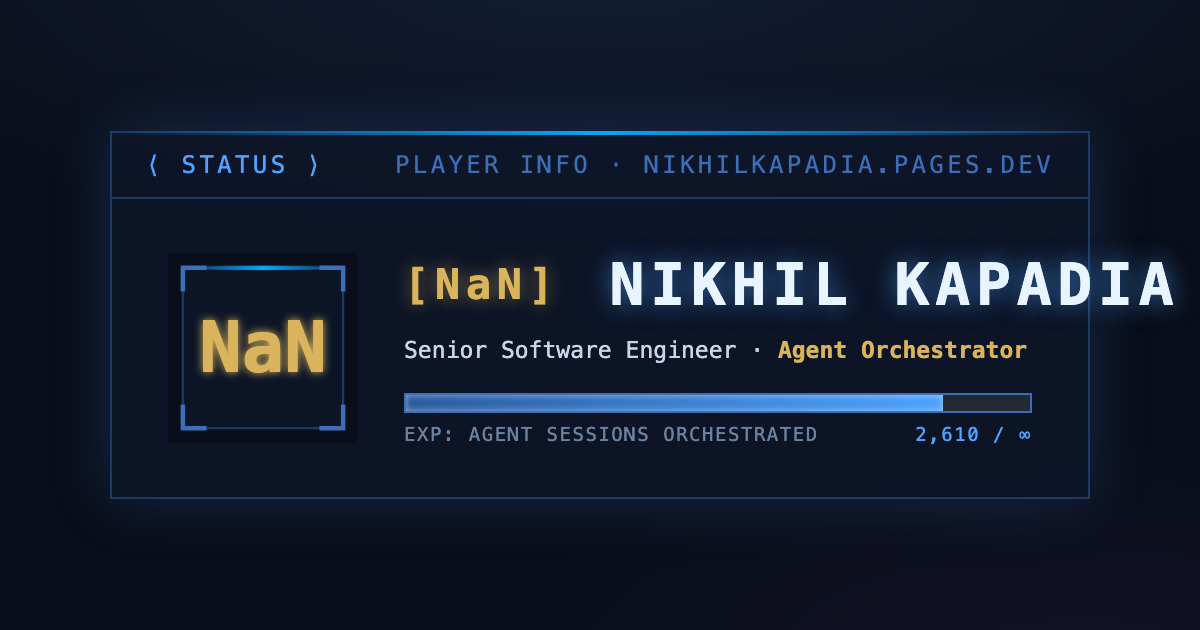
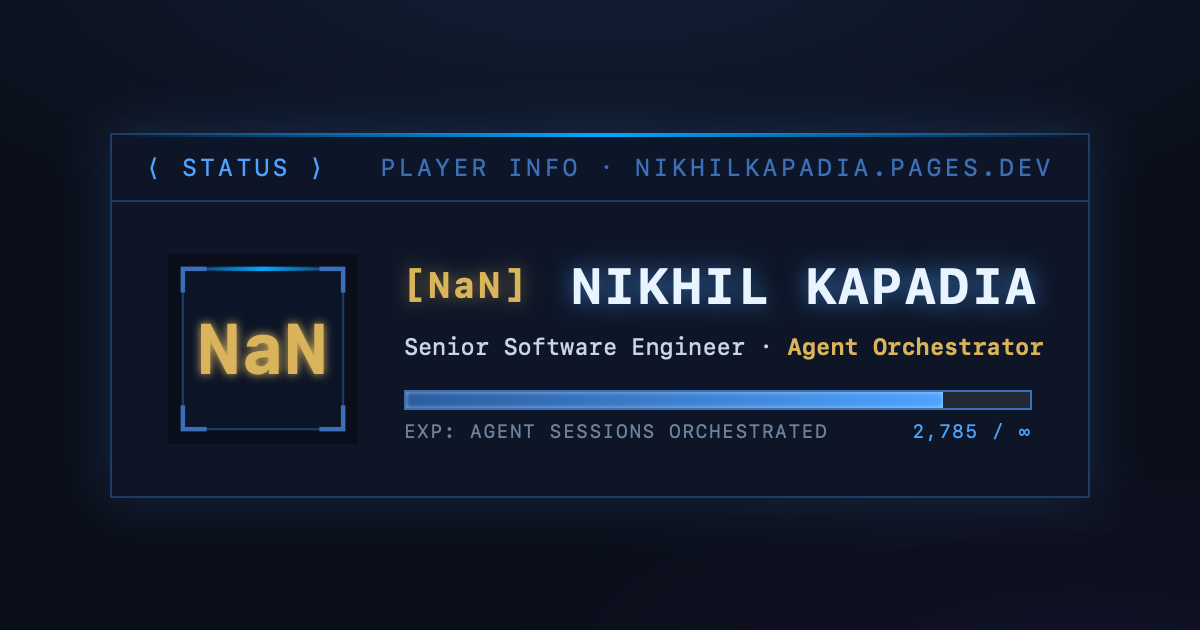
Social card: fit the name, refresh the count, add a WebKit render script

diff --git a/scripts/render-og.swift b/scripts/render-og.swift
@@ -1,0 +1,24 @@
+import AppKit
+import WebKit
+let args = CommandLine.arguments
+let src = URL(fileURLWithPath: args[1]); let out = URL(fileURLWithPath: args[2])
+let width = CGFloat(Double(args[3]) ?? 1200); let height = CGFloat(Double(args[4]) ?? 630)
+let app = NSApplication.shared; app.setActivationPolicy(.prohibited)
+let config = WKWebViewConfiguration()
+let web = WKWebView(frame: NSRect(x: 0, y: 0, width: width, height: height), configuration: config)
+let window = NSWindow(contentRect: web.frame, styleMask: .borderless, backing: .buffered, defer: false)
+window.contentView = web
+final class Nav: NSObject, WKNavigationDelegate {
+    func webView(_ webView: WKWebView, didFinish navigation: WKNavigation!) {
+        DispatchQueue.main.asyncAfter(deadline: .now() + 1.0) {
+            let snap = WKSnapshotConfiguration(); snap.rect = webView.bounds; snap.snapshotWidth = NSNumber(value: Double(width))
+            webView.takeSnapshot(with: snap) { image, error in
+                guard let image, let tiff = image.tiffRepresentation, let rep = NSBitmapImageRep(data: tiff), let png = rep.representation(using: .png, properties: [:]) else { print("snapshot failed", error ?? ""); exit(1) }
+                try! png.write(to: out); print("wrote", out.path, Int(rep.pixelsWide), "x", Int(rep.pixelsHigh)); exit(0)
+            }
+        }
+    }
+}
+let nav = Nav(); web.navigationDelegate = nav
+web.loadFileURL(src, allowingReadAccessTo: src.deletingLastPathComponent())
+app.run()

diff --git a/og-src.html b/og-src.html
@@ -1,6 +1,7 @@
 <!doctype html>
 <!-- Source for og.png. Regenerate with:
-     chrome --headless --window-size=1200,630 --screenshot=og.png og-src.html -->
+     chrome --headless --window-size=1200,630 --screenshot=og.png og-src.html
+     or: swift scripts/render-og.swift "$PWD/og-src.html" og.png 1200 630 -->
 <html>
 <head>
 <meta charset="utf-8">
@@ -39,8 +40,10 @@
   .body { display: flex; align-items: center; gap: 46px; padding: 52px 56px; }
   .badge { width: 190px; height: 190px; flex-shrink: 0; }
   .name {
-    font-size: 58px; font-weight: 700;
-    letter-spacing: .1em; text-transform: uppercase;
+    /* 632px of room: 14 uppercase mono glyphs plus the clan tag only fit
+       at this size and tracking. Check the render after any change. */
+    font-size: 50px; font-weight: 700;
+    letter-spacing: .05em; text-transform: uppercase;
     color: #e8f4ff;
     text-shadow: 0 0 24px rgba(77, 163, 255, .6);
     white-space: nowrap;
@@ -76,7 +79,7 @@
         <div class="name"><span class="clan">[NaN]</span> Nikhil Kapadia</div>
         <div class="class-line">Senior Software Engineer · <b>Agent Orchestrator</b></div>
         <div class="meter"><div class="fill"></div></div>
-        <div class="meter-label"><span>Exp: agent sessions orchestrated</span><span class="val">2,610 / ∞</span></div>
+        <div class="meter-label"><span>Exp: agent sessions orchestrated</span><span class="val">2,785 / ∞</span></div>
       </div>
     </div>
   </div>

diff --git a/README.md b/README.md
@@ -12,4 +12,4 @@ That copies the static files into `dist/` and uploads them with wrangler. The Pa
 
 ## Editing
 
-Everything visible lives in `index.html`. `og-src.html` is the source for the social card image; re-render `og.png` from it if the card changes. `archive/` holds old versions and is not deployed.
+Everything visible lives in `index.html`. `og-src.html` is the source for the social card image. Re-render it with `swift scripts/render-og.swift "$PWD/og-src.html" og.png 1200 630` after any change, and check the name still fits. `archive/` holds old versions and is not deployed.
